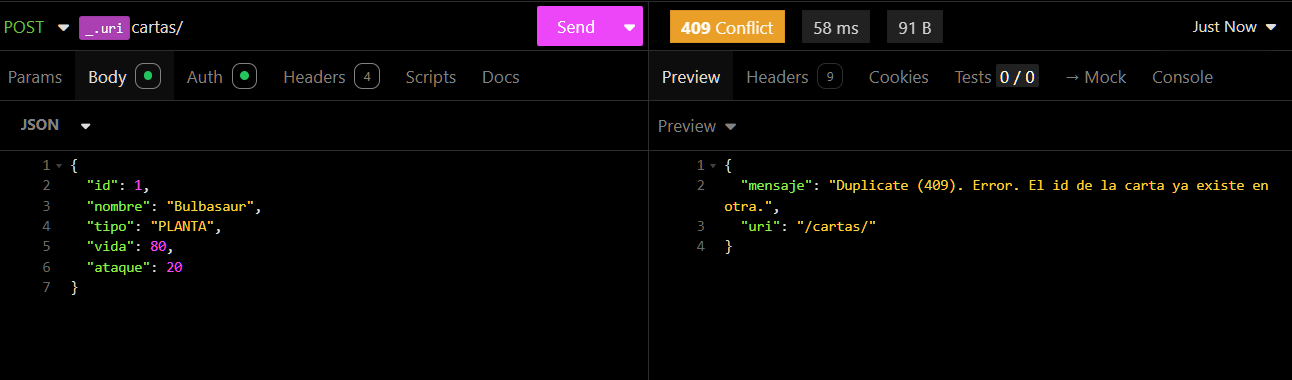
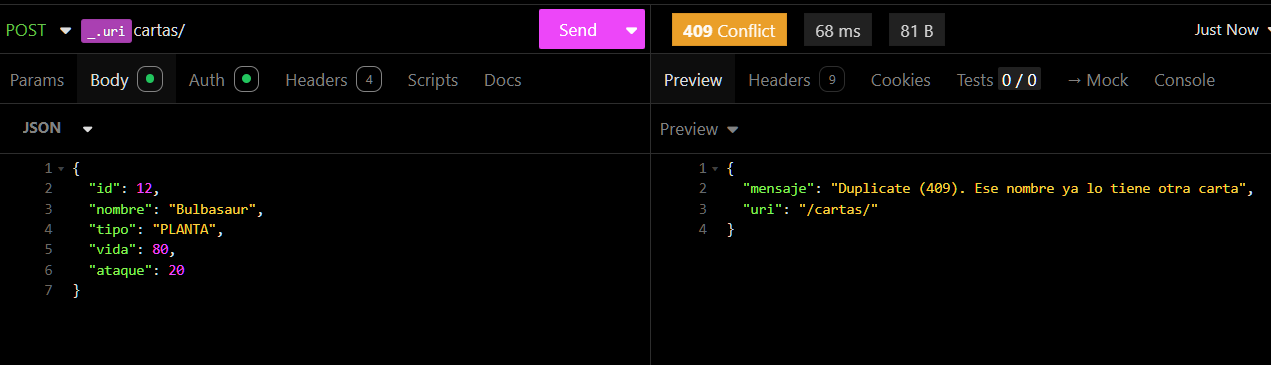
carta nice finished

diff --git a/src/main/java/com/es/TCG_Commerce/service/CartaService.java b/src/main/java/com/es/TCG_Commerce/service/CartaService.java
@@ -77,9 +77,7 @@ public class CartaService {
             throw new BadRequestException("No has introducido un ataque válida");
         }
         if (cdto.getUsername() != null){
-            if (!cartaRepository.findByNombre(cdto.getNombre()).isPresent()){
-                throw new BadRequestException("El usuario de la carta no está en la base de datos");
-            }
+            throw new BadRequestException("Una nueva carta no puede tener un usuario asignado, tiene que comprarla");
         }
 
         cartaRepository.save(Mapper.DTOToEntity(cdto));
@@ -88,10 +86,20 @@ public class CartaService {
     }
 
     public CartaDTO update(Long id, CartaDTO cdto){
-        if (cartaRepository.findById(cdto.getId()).isPresent()){
-            throw new DuplicateException("Error. El id de la carta ya existe en otra.");
+
+        Carta c = cartaRepository.findById(id).orElseThrow(()
+                -> new NotFoundException("La carta no está en la bd"));
+
+        // si el id de la carta que se quiere cambiar es distinto del que se pasa por json:
+        // esto permite que se actualice una carta con el mismo id sin cambiarlo
+        if (id != cdto.getId()){
+            if (cartaRepository.findById(cdto.getId()).isPresent()){
+                throw new DuplicateException("Error. El id de la carta ya existe en  otra.");
+            }
         }
-        if (cartaRepository.findByNombre(cdto.getNombre()).isPresent()){
+
+        // &&... para no compararse con ella misma, permitir el mismo nombre si ya es suyo
+        if (cartaRepository.findByNombre(cdto.getNombre()).isPresent() && !c.getNombre().equals(cdto.getNombre())){
             throw new DuplicateException("Ese nombre ya lo tiene otra carta");
         }
         if (!(cdto.getTipo().equals("FUEGO")  || cdto.getTipo().equals("PLANTA")  || cdto.getTipo().equals("AGUA")  ||
@@ -113,8 +121,7 @@ public class CartaService {
         }
 
 
-        Carta c = cartaRepository.findById(id).orElseThrow(()
-                -> new NotFoundException("La carta no está en la bd"));
+
 
         c.setNombre(cdto.getNombre());
         c.setTipo(cdto.getTipo());

diff --git a/src/main/java/com/es/TCG_Commerce/utils/Mapper.java b/src/main/java/com/es/TCG_Commerce/utils/Mapper.java
@@ -75,20 +75,26 @@ public class Mapper {
 
     public static CartaDTO entityToDTO(Carta c){
 
-        // tengo que mapear antes la lista de usuarios, puesto que en cartaDTO son UsuariosDTO:
-//        List<UsuarioDTO> uDTOs = new ArrayList<>();
-//        for (Usuario u : c.getVendedores()) {
-//            uDTOs.add(this.entityToDTO(u));
-//        }
+        // si no tiene usuario asignado no se inicializa con nombre
+        if (c.getUsuario() != null){
+            return new CartaDTO(
+                    c.getId(),
+                    c.getNombre(),
+                    c.getTipo(),
+                    c.getVida(),
+                    c.getAtaque(),
+                    c.getUsuario().getUsername()
+            );
+        } else {
+            return new CartaDTO(
+                    c.getId(),
+                    c.getNombre(),
+                    c.getTipo(),
+                    c.getVida(),
+                    c.getAtaque()
+            );
+        }
 
-        return new CartaDTO(
-                c.getId(),
-                c.getNombre(),
-                c.getTipo(),
-                c.getVida(),
-                c.getAtaque(),
-                c.getUsuario().getUsername()
-        );
     }
 
     // cartaS
@@ -116,11 +122,6 @@ public class Mapper {
     }
 
     public static Carta DTOToEntity(CartaDTO cDTO){
-
-/*        List<Usuario> us = new ArrayList<>();
-        for (UsuarioDTO uDTO : cDTO.getVendedores()) {
-            us.add(this.DTOToEntity(uDTO));
-        }*/
 
         return new Carta(
                 cDTO.getId(),

diff --git a/README.md b/README.md
@@ -153,7 +153,8 @@ Estas son las tablas que contendrá:
    - `tipo` que sea uno de estos: `FUEGO`, `AGUA`, `PLANTA`, `RAYO`, `PSIQUICO`, `LUCHA`, `OSCURO`, `DRAGON`, `METALICO`, `INCOLORO`.
    - `vida` entre 10 y 300.
    - `ataque` entre 10 y 300.
-   - `usuario` que exista en la base de datos.
+   - `usuario` que exista en la base de datos. No permitido que una nueva tenga un usuario establecido, ha de actualizarse
+                más adelante, con una compra.
 
 3. **Transacciones**
    - `id` autoincremental.
@@ -243,36 +244,37 @@ Estas son las tablas que contendrá:
 
 ### **Gestión de Cartas**
 - **GET /cartas/** (Solo ADMIN)
-    - ✅ Prueba con usuario ADMIN.
-    - ❌ Prueba con usuario USER.
-    - ❌ Prueba sin autenticación.
+    - ✅ Prueba con usuario ADMIN.![img_44.png](img_44.png)
+    - ❌ Prueba con usuario USER.![img_43.png](img_43.png)
+    - ❌ Prueba sin autenticación.![img_42.png](img_42.png)
 
 - **GET /cartas/{id}** (Solo ADMIN)
-    - ✅ Prueba con usuario ADMIN.
-    - ❌ Prueba con usuario USER.
-    - ❌ Prueba sin autenticación.
-    - ❌ Prueba con un ID de carta inexistente.
+    - ✅ Prueba con usuario ADMIN.![img_45.png](img_45.png)
+    - ❌ Prueba con usuario USER.![img_46.png](img_46.png)
+    - ❌ Prueba sin autenticación.![img_47.png](img_47.png)
+    - ❌ Prueba con un ID de carta inexistente.![img_48.png](img_48.png)
 
 - **POST /cartas** (Solo ADMIN)
     - ✅ Prueba con usuario ADMIN.![img_35.png](img_35.png)
     - ❌ Prueba con usuario USER.![img_36.png](img_36.png)
     - ❌ Prueba sin autenticación.![img_37.png](img_37.png)
     - ❌ Prueba con nombre duplicado.![img_38.png](img_38.png)
-    - ❌ Prueba con un tipo no permitido.
-    - ❌ Prueba con vida o ataque fuera del rango permitido.
+    - ❌ Prueba con un tipo no permitido.![img_39.png](img_39.png)
+    - ❌ Prueba con vida o ataque fuera del rango permitido.![img_40.png](img_40.png)![img_41.png](img_41.png)
+    - ❌ Prueba creando con un usuario (not null).![img_49.png](img_49.png)
 
 - **PUT /cartas/{id}** (Solo ADMIN)
-    - ✅ Prueba con usuario ADMIN.
-    - ❌ Prueba con usuario USER.
-    - ❌ Prueba sin autenticación.
-    - ❌ Prueba con ID inexistente.
-    - ❌ Prueba con datos inválidos.
+    - ✅ Prueba con usuario ADMIN.![img_50.png](img_50.png)
+    - ❌ Prueba con usuario USER.![img_51.png](img_51.png)
+    - ❌ Prueba sin autenticación.![img_52.png](img_52.png)
+    - ❌ Prueba con ID inexistente.![img_53.png](img_53.png)
+    - ❌ Prueba con datos inválidos.![img_54.png](img_54.png)
 
 - **DELETE /cartas/{id}** (Solo ADMIN)
-    - ✅ Prueba con usuario ADMIN.
-    - ❌ Prueba con usuario USER.
-    - ❌ Prueba sin autenticación.
-    - ❌ Prueba con ID inexistente.
+    - ✅ Prueba con usuario ADMIN.![img_55.png](img_55.png)
+    - ❌ Prueba con usuario USER.![img_57.png](img_57.png)
+    - ❌ Prueba sin autenticación.![img_56.png](img_56.png)
+    - ❌ Prueba con ID inexistente.![img_58.png](img_58.png)
 
 ### **Gestión de Transacciones**
 - **GET /transacciones/{id}** (Solo ADMIN)
@@ -309,7 +311,7 @@ Estas son las tablas que contendrá:
 1. **Autenticación y Autorización:**
     - Probar acceso a rutas protegidas sin autenticación.![img.png](img.png)![img_1.png](img_1.png)
     - Intentar acceso a recursos de otros usuarios. // ver pruebas de endpoints
-    - Verificar que los tokens expiran correctamente. // no voy a esperar una hora
+    - Verificar que los tokens expiran correctamente. // comprobado (por tiempo)
     - Intentar autenticarse con contraseñas incorrectas múltiples veces. // no quiero banearme
 
 2. **Inyección SQL:**
